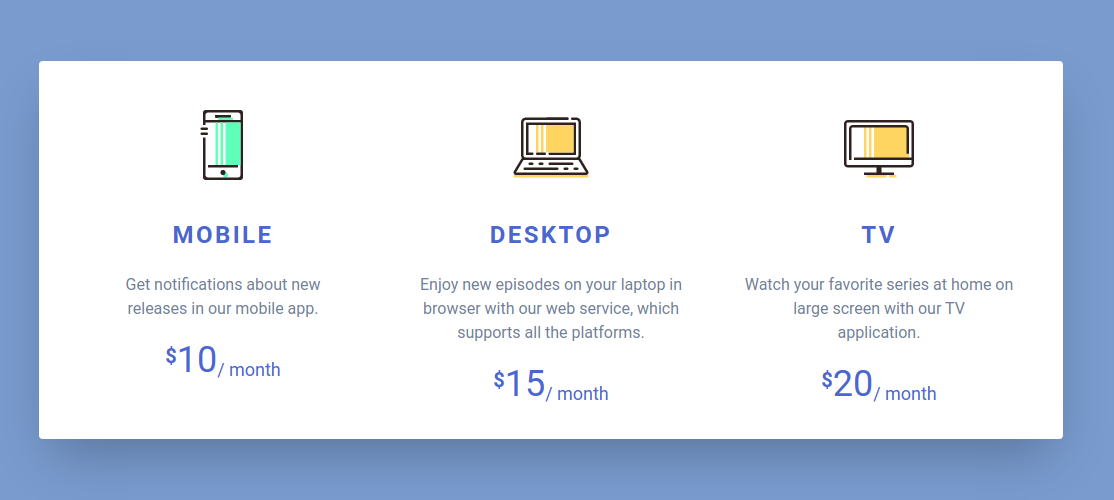
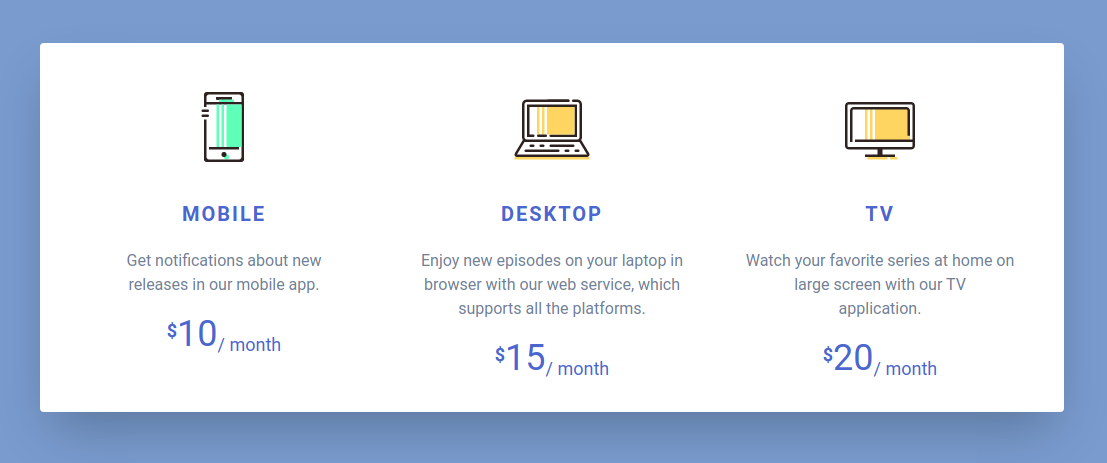
fix: readme preview

diff --git a/index.html b/index.html
@@ -15,33 +15,33 @@
 
         <div class="flex flex-col items-center text-center hover:bg-grey py-5 rounded">
             <img class="h-20 w-20 mb-8" src="media/device.svg" alt="mobile-device">
-            <h1 class="text-price-blue font-bold text-2xl tracking-widest">MOBILE</h1>
+            <h1 class="text-price-blue font-bold text-xl tracking-widest">MOBILE</h1>
             <p class="font-thin my-5 text-gray-600">
                 Get notifications about new <br>releases in our mobile app.
             </p>
-            <span class="annual-price text-xl text-price-blue font-bold ">$<sub class="text-4xl font-normal ">10<sub class="text-lg">/ month
+            <span class="annual-price text-lg text-price-blue font-bold ">$<sub class="text-4xl font-normal ">10<sub class="text-lg">/ month
             </sub></sub></span>
 
         </div>
 
         <div class="flex flex-col items-center text-center hover:bg-grey py-5 rounded">
             <img class="h-20 w-20 mb-8" src="media/laptop.svg" alt="mobile-device">
-            <h1 class="text-price-blue font-bold text-2xl tracking-widest">DESKTOP</h1>
+            <h1 class="text-price-blue font-bold text-xl tracking-widest">DESKTOP</h1>
             <p class=" my-5 font-thin text-gray-600 w-11/12">
                 Enjoy new episodes on your laptop in browser with our web service, which supports all the platforms.
             </p>
-            <span class="annual-price text-xl text-price-blue font-bold">$<sub class="text-4xl font-normal">15<sub class="text-lg">/ month
+            <span class="annual-price text-lg text-price-blue font-bold">$<sub class="text-4xl font-normal">15<sub class="text-lg">/ month
             </sub></sub></span>
 
         </div>
 
         <div class="flex flex-col items-center text-center hover:bg-grey py-5 rounded">
             <img class="h-20 w-20 mb-8" src="media/monitor.svg" alt="mobile-device">
-            <h1 class="text-price-blue font-bold text-2xl tracking-widest">TV</h1>
+            <h1 class="text-price-blue font-bold text-xl tracking-widest">TV</h1>
             <p class="font-thin my-5 w-11/12 text-gray-600 ">
                 Watch your favorite series at home on large screen with our TV <br> application.
             </p>
-            <span class="annual-price text-xl text-price-blue font-bold">$<sub class="text-4xl font-normal">20<sub class="text-lg">/ month
+            <span class="annual-price text-lg text-price-blue font-bold">$<sub class="text-4xl font-normal">20<sub class="text-lg">/ month
             </sub></sub></span>
 
         </div>
